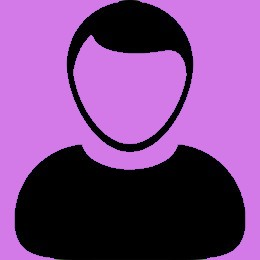
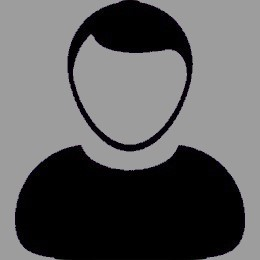
Release

diff --git a/style.css b/style.css
@@ -2,7 +2,7 @@
 
 body{
     font-family: 'Alegreya', serif;
-    background: #E25822;
+    background: #699da0;
 }
 
 * {
@@ -21,7 +21,7 @@ body{
     height: 700px;
     margin-top: 2rem;
     border: 2px solid black;
-    background: #D47AE8;
+    background: #9D9D9D;
     padding-bottom: 2rem;
 
 
@@ -34,6 +34,7 @@ body{
 }
 
 .box1{
+    display: inline-block;
     background: url(./assets/user.jpeg);
     background-repeat: no-repeat;
     background-size: cover;
@@ -53,7 +54,7 @@ body{
     margin-top: 1rem;
     width: 15rem;
     height: 3rem;
-    background: #F4BEEE;
+    background: #F8F0DF;
     color: black;
 }
 
@@ -65,7 +66,7 @@ body{
     margin-top: 1rem;
     width: 15rem;
     height: 3rem;
-    background: #c59bc0;
+    background: #a8a397;
     color: black;
 }
 
@@ -77,7 +78,7 @@ body{
     margin-top: 1rem;
     width: 15rem;
     height: 3rem;
-    background: #F4BEEE;
+    background: #F8F0DF;
     color: black;
 }
 
@@ -89,7 +90,7 @@ body{
     margin-top: 1rem;
     width: 15rem;
     height: 3rem;
-    background: #c59bc0;
+    background: #a8a397;
     color: black;
 }
 
@@ -101,8 +102,8 @@ body{
     margin-left: 13.5rem;
     margin-right: 13.5rem;
     margin-top: 1.5rem;
-    background: #d4a8cf;
-    color: #fff;
+    background: #F8F0DF;
+    color: black;
     border-radius: 1rem;
 }
 
@@ -112,7 +113,7 @@ body{
     margin-left: 13.5rem;
     margin-right: 13.5rem;
     margin-top: 1.5rem;
-    background:#c59bc0;
+    background:#ccbc9c;
     color: #fff;
     border-radius: 1rem;
 }
@@ -123,7 +124,7 @@ body{
     margin-left: 11rem;
     margin-right: 11rem;
     margin-top: 1.5rem;
-    background: #d4a8cf;
+    background: #D55252;
     color: #fff;
     border-radius: 1rem;
 }
@@ -134,7 +135,7 @@ body{
     margin-left: 11rem;
     margin-right: 11rem;
     margin-top: 1.5rem;
-    background: #c59bc0;
+    background: #b64545;
     color: #fff;
     border-radius: 1rem;
 }
@@ -154,12 +155,12 @@ body{
 }
 
 .division a{
-    color: #EDD2F3;
+    color: #F8F0DF;
    
 }
 
 .division a:hover{
-    color: #b19cb6;
+    color: #e6d4af;
     text-decoration: underline;
 }
 
@@ -169,6 +170,7 @@ a{
 }
 
 form {
+    display: inline-block;
     max-width: 600px;  
     margin: 0 auto;
     margin-top: 1.5rem;

diff --git a/index.html b/index.html
@@ -5,12 +5,10 @@
     <meta http-equiv="X-UA-Compatible" content="IE=edge">
     <meta name="viewport" content="width=device-width, initial-scale=1.0">
     <link rel="stylesheet" href="style.css">
-    <title>Document</title>
+    <title>Login</title>
 </head>
-<body>
-    
+<body>    
     <article>
-       
         <div class="container">
             <div class="box1">
             <h1>Iniciar Sesión</h1>
@@ -29,13 +27,8 @@
                 <div class="division">
                     <p>¿No tenes cuenta? <a href="#">Registrate</a></p>
                 </div>
-
             </div>
-
-
-
         </div>
-
     </article>
 </body>
 </html>
